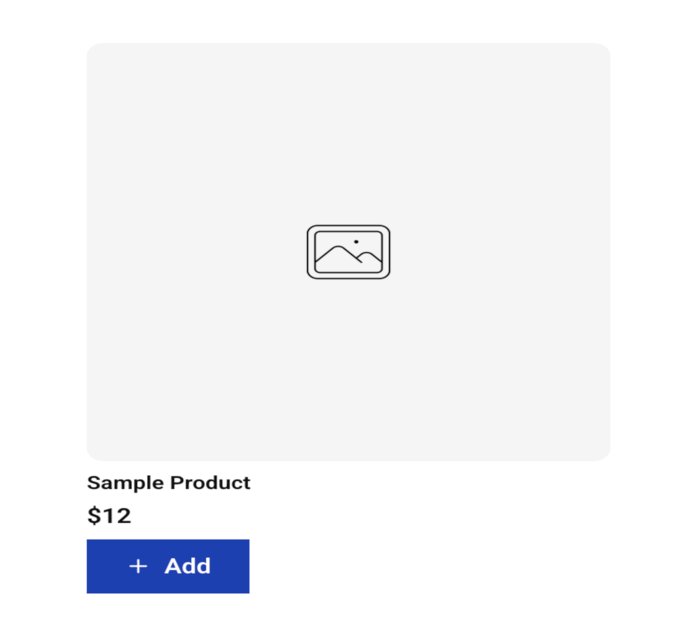
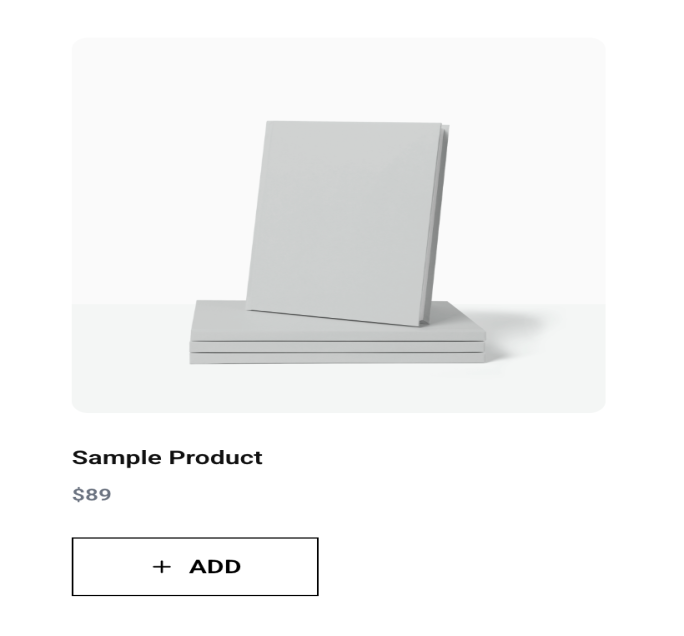
Fix issue of block in edit mode, Add Padidng & Margin controls, Updated the Template with Design from Figma & updated the preview image for the same.

Changed region(s): [[0.2763, 0.1792, 0.7982, 0.5975], [0.0921, 0.6871, 0.4605, 0.956]]

diff --git a/app/src/Integrations/Elementor/Widgets/ProductQuickAddButton.php b/app/src/Integrations/Elementor/Widgets/ProductQuickAddButton.php
@@ -252,6 +252,30 @@ class ProductQuickAddButton extends \Elementor\Widget_Base {
 			]
 		);
 
+		$this->add_responsive_control(
+			'padding',
+			[
+				'type'       => \Elementor\Controls_Manager::DIMENSIONS,
+				'label'      => esc_html__( 'Padding', 'textdomain' ),
+				'size_units' => [ 'px', '%', 'em', 'rem', 'custom' ],
+				'selectors'  => [
+					$button_selector => 'padding: {{TOP}}{{UNIT}} {{RIGHT}}{{UNIT}} {{BOTTOM}}{{UNIT}} {{LEFT}}{{UNIT}};',
+				],
+			]
+		);
+
+		$this->add_responsive_control(
+			'margin',
+			[
+				'type'       => \Elementor\Controls_Manager::DIMENSIONS,
+				'label'      => esc_html__( 'Margin', 'textdomain' ),
+				'size_units' => [ 'px', '%', 'em', 'rem', 'custom' ],
+				'selectors'  => [
+					$button_selector => 'margin: {{TOP}}{{UNIT}} {{RIGHT}}{{UNIT}} {{BOTTOM}}{{UNIT}} {{LEFT}}{{UNIT}};',
+				],
+			]
+		);
+
 		$this->end_controls_section();
 	}
 
@@ -309,6 +333,7 @@ class ProductQuickAddButton extends \Elementor\Widget_Base {
 					</div>
 				</div>
 			<?php
+			return;
 		}
 
 		?>
